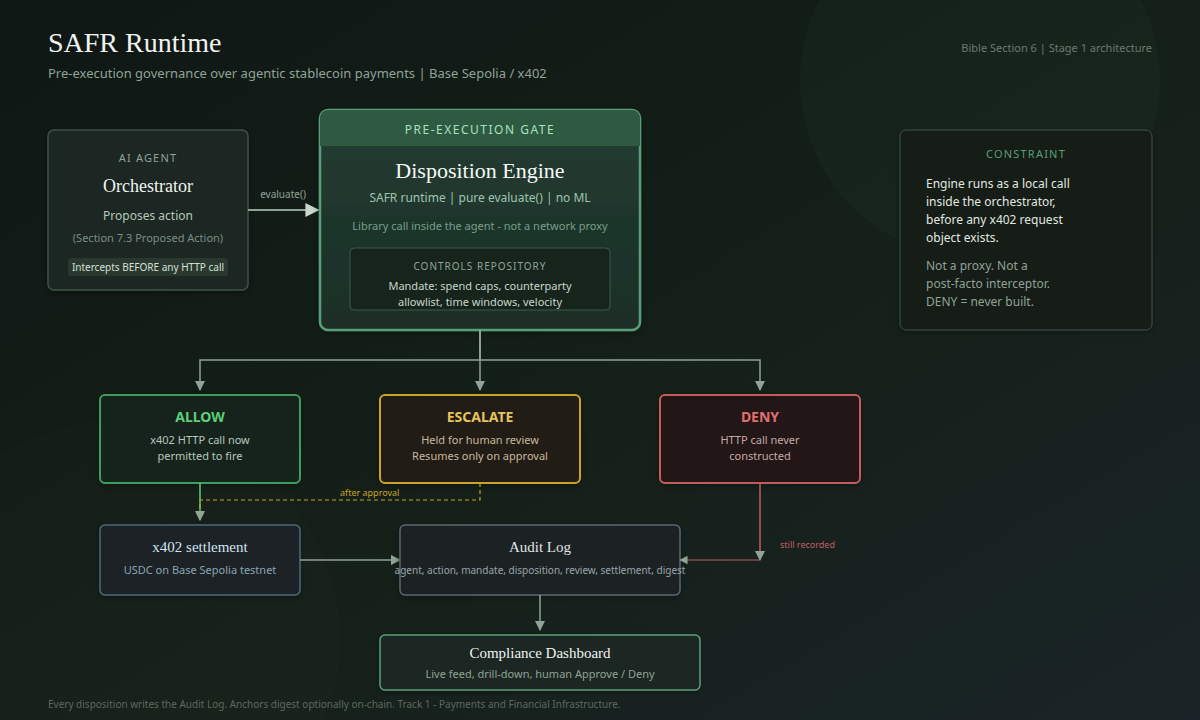
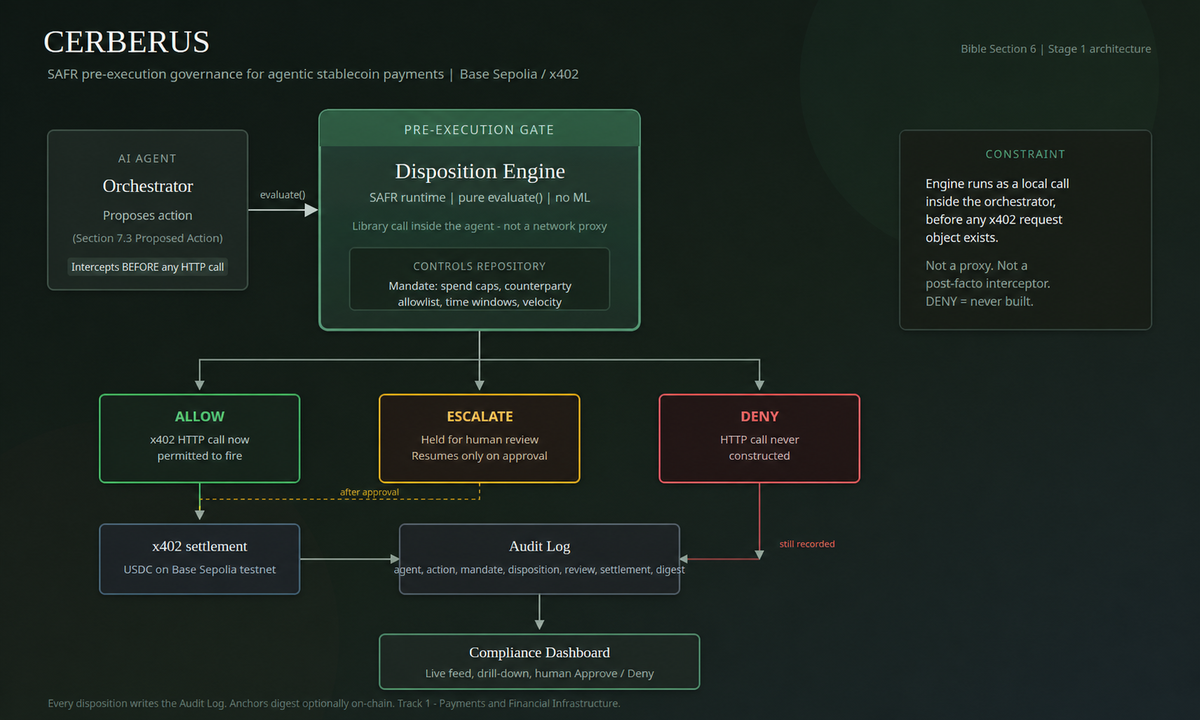
Finalize Cerberus demo branding and evidence checks

diff --git a/apps/dashboard/components/Sidebar.tsx b/apps/dashboard/components/Sidebar.tsx
@@ -48,8 +48,8 @@ export function Sidebar() {
   return (
     <aside className="flex w-[220px] shrink-0 flex-col border-r border-border bg-chrome">
       <div className="px-5 pb-6 pt-6">
-        <div className="text-[15px] font-semibold tracking-tight text-ink">SAFR</div>
-        <div className="text-[13px] text-mute">Runtime</div>
+        <div className="text-[15px] font-semibold tracking-tight text-ink">CERBERUS</div>
+        <div className="text-[13px] text-mute">SAFR Runtime</div>
       </div>
 
       <nav className="flex flex-1 flex-col gap-0.5 px-3">

diff --git a/apps/dashboard/app/layout.tsx b/apps/dashboard/app/layout.tsx
@@ -16,8 +16,8 @@ const jetbrains = JetBrains_Mono({
 });
 
 export const metadata: Metadata = {
-  title: "SAFR Runtime — Compliance",
-  description: "Audit log and escalation review for agentic payments under SAFR.",
+  title: "CERBERUS — Compliance",
+  description: "CERBERUS implements the SAFR runtime pattern for governed agentic payments.",
 };
 
 export default function RootLayout({ children }: { children: React.ReactNode }) {

diff --git a/apps/agent/src/cli/section9.ts b/apps/agent/src/cli/section9.ts
@@ -185,7 +185,7 @@ async function runOnce(runLabel: string): Promise<void> {
 }
 
 export async function main(): Promise<void> {
-  console.log("\nSAFR Runtime — Bible Section 9 demo script (Phase 7)");
+  console.log("\nCERBERUS — SAFR Runtime demo (Bible Section 9)");
   console.log(
     live
       ? "Mode: live escalation (dashboard Approve required for scenario 3)"

diff --git a/apps/api/src/server.ts b/apps/api/src/server.ts
@@ -53,7 +53,7 @@ app.use(
 );
 
 app.listen(PORT, () => {
-  console.log(`\n  SAFR API listening on http://localhost:${PORT}`);
+  console.log(`\n  CERBERUS API — SAFR Runtime listening on http://localhost:${PORT}`);
   console.log(`  live feed     GET /audit/stream`);
   console.log(`  escalations   POST /escalations/:actionId/decision\n`);
 });

diff --git a/docs/Memory.md b/docs/Memory.md
@@ -20,6 +20,7 @@ A cold session should be able to resume from this file plus `SAFR_RUNTIME_PROJEC
 - **Phase 7:** **code complete; disposition DoD met thrice.** `npm run demo:script -- --thrice` passes 3 consecutive clean resets. Settlement-hash half of the DoD is blocked by B1 (same as Phase 1/5).
 - **Phase 9:** **complete.** The submission-ready architecture slide is tracked at `docs/assets/safr-architecture-slide.png` and embedded in the README.
 - **Post-review hardening (Aug 7):** atomic escalation claim, pay() throw → failed settlement + finalize, Agent page §7.1 fields, drill-down threshold vs actual, Audit Log 24h spend strip.
+- **Pre-recording hardening (Aug 14):** judge-visible product branding is CERBERUS / SAFR Runtime; strict evidence capture refuses failed settlements, missing human approval, unanchored records, or an unconfigured anchor contract.
 - **Deadline (authoritative, from the organizer's published rules):** **Fri Aug 14, 2026, 11:59 PM SGT = 21:29 IST.** Self-imposed submission target Aug 14, 12:00 IST. Earlier notes in this file and in the Bible said 21:15 IST / 11:45 PM SGT, taken from the schedule banner; the rules text is the controlling source and gives 11:59 PM SGT. Do not plan to the last 14 minutes either way.
 - **Test count:** **91/91** as of Aug 13. Historical entries below quoting 84/87 were correct when written.
 - **Next concrete step:** fund the payer wallet **on whichever machine will run the judged demo** — see B1, there are currently two — then record the Phase 8 video and complete the Phase 10 submission from `docs/submission/`.
@@ -73,6 +74,18 @@ Bible Section 7.2 sets `allowed_days: ["Mon".."Fri"]`, and the seed originally f
 ---
 
 ## Log
+
+### Aug 14 — pre-recording branding and final-evidence guard
+
+**Changed:** dashboard sidebar now shows `CERBERUS` / `SAFR Runtime`; browser metadata is `CERBERUS — Compliance`; the Section 9 terminal and API startup banners identify CERBERUS while retaining SAFR Runtime as the implemented pattern. The architecture slide was regenerated with the CERBERUS title and visually verified at 1200×720; topology, dispositions, terminology, and the pre-execution constraint remain unchanged.
+
+**Evidence safety:** `scripts/capture-evidence.ps1 -Final` now refuses final capture unless API/database health is green, the x402 facilitator responds, `AUDIT_ANCHOR_ADDRESS` is configured, ALLOW and approved ESCALATE have real settlement hashes, DENY has no settlement, and all three terminal records are anchored. The Audit Log `Live` frame remains a required manual real-browser capture because headless SSE cannot prove that state. PowerShell is unavailable on this Linux machine, so Harsh must execute strict capture on the Windows recording machine after pulling; the script's application inputs and record fields match the existing API schema.
+
+**Verified:** `npm run typecheck` clean; `npm test` **91/91**; `npm run build --prefix apps/dashboard` clean. No governance, schema, settlement, or disposition behavior changed.
+
+**Still external:** the funded run, contract deployment, real hashes, strict screenshots, and raw video must be produced on Harsh's machine because its funded `.env` cannot be transferred through Git.
+
+---
 
 ### Aug 13 (later) — second machine rebuilt; submission pack written
 

diff --git a/docs/submission/EVIDENCE.md b/docs/submission/EVIDENCE.md
@@ -3,10 +3,18 @@
 What has actually been produced, what it proves, and what is still outstanding.
 Captured 13 August 2026 against the rebuilt local environment.
 
-Regenerate the dashboard shots any time with:
+Regenerate development dashboard shots any time with:
 
 ```bash
 pwsh -File scripts/capture-evidence.ps1
+```
+
+After the funded final run, use strict mode. It refuses to overwrite evidence unless
+ALLOW and approved ESCALATE have real settlement hashes, DENY has no settlement, and
+all three terminal records have on-chain anchor transaction hashes:
+
+```bash
+pwsh -File scripts/capture-evidence.ps1 -Final
 ```
 
 ---
@@ -28,11 +36,12 @@ embedded in the README).
 
 ### Note on `01-audit-log.png`
 
-The live indicator reads "Reconnecting" in this capture. That is an artefact of the
+The current live indicator reads "Reconnecting" in this capture. That is an artefact of the
 headless screenshot, not a defect: the page holds an SSE connection open, which never
 settles inside a headless frame grab. On a real browser it reads **Live** — see the
-first frame of the demo video, or just retake this one shot manually. Worth retaking
-before submission since a judge may read it as a broken connection.
+first frame of the demo video. The final `01-audit-log.png` must be retaken manually
+in a real browser after strict capture passes; do not use the headless version in the
+PDF because a judge may reasonably read it as a broken connection.
 
 ---
 
